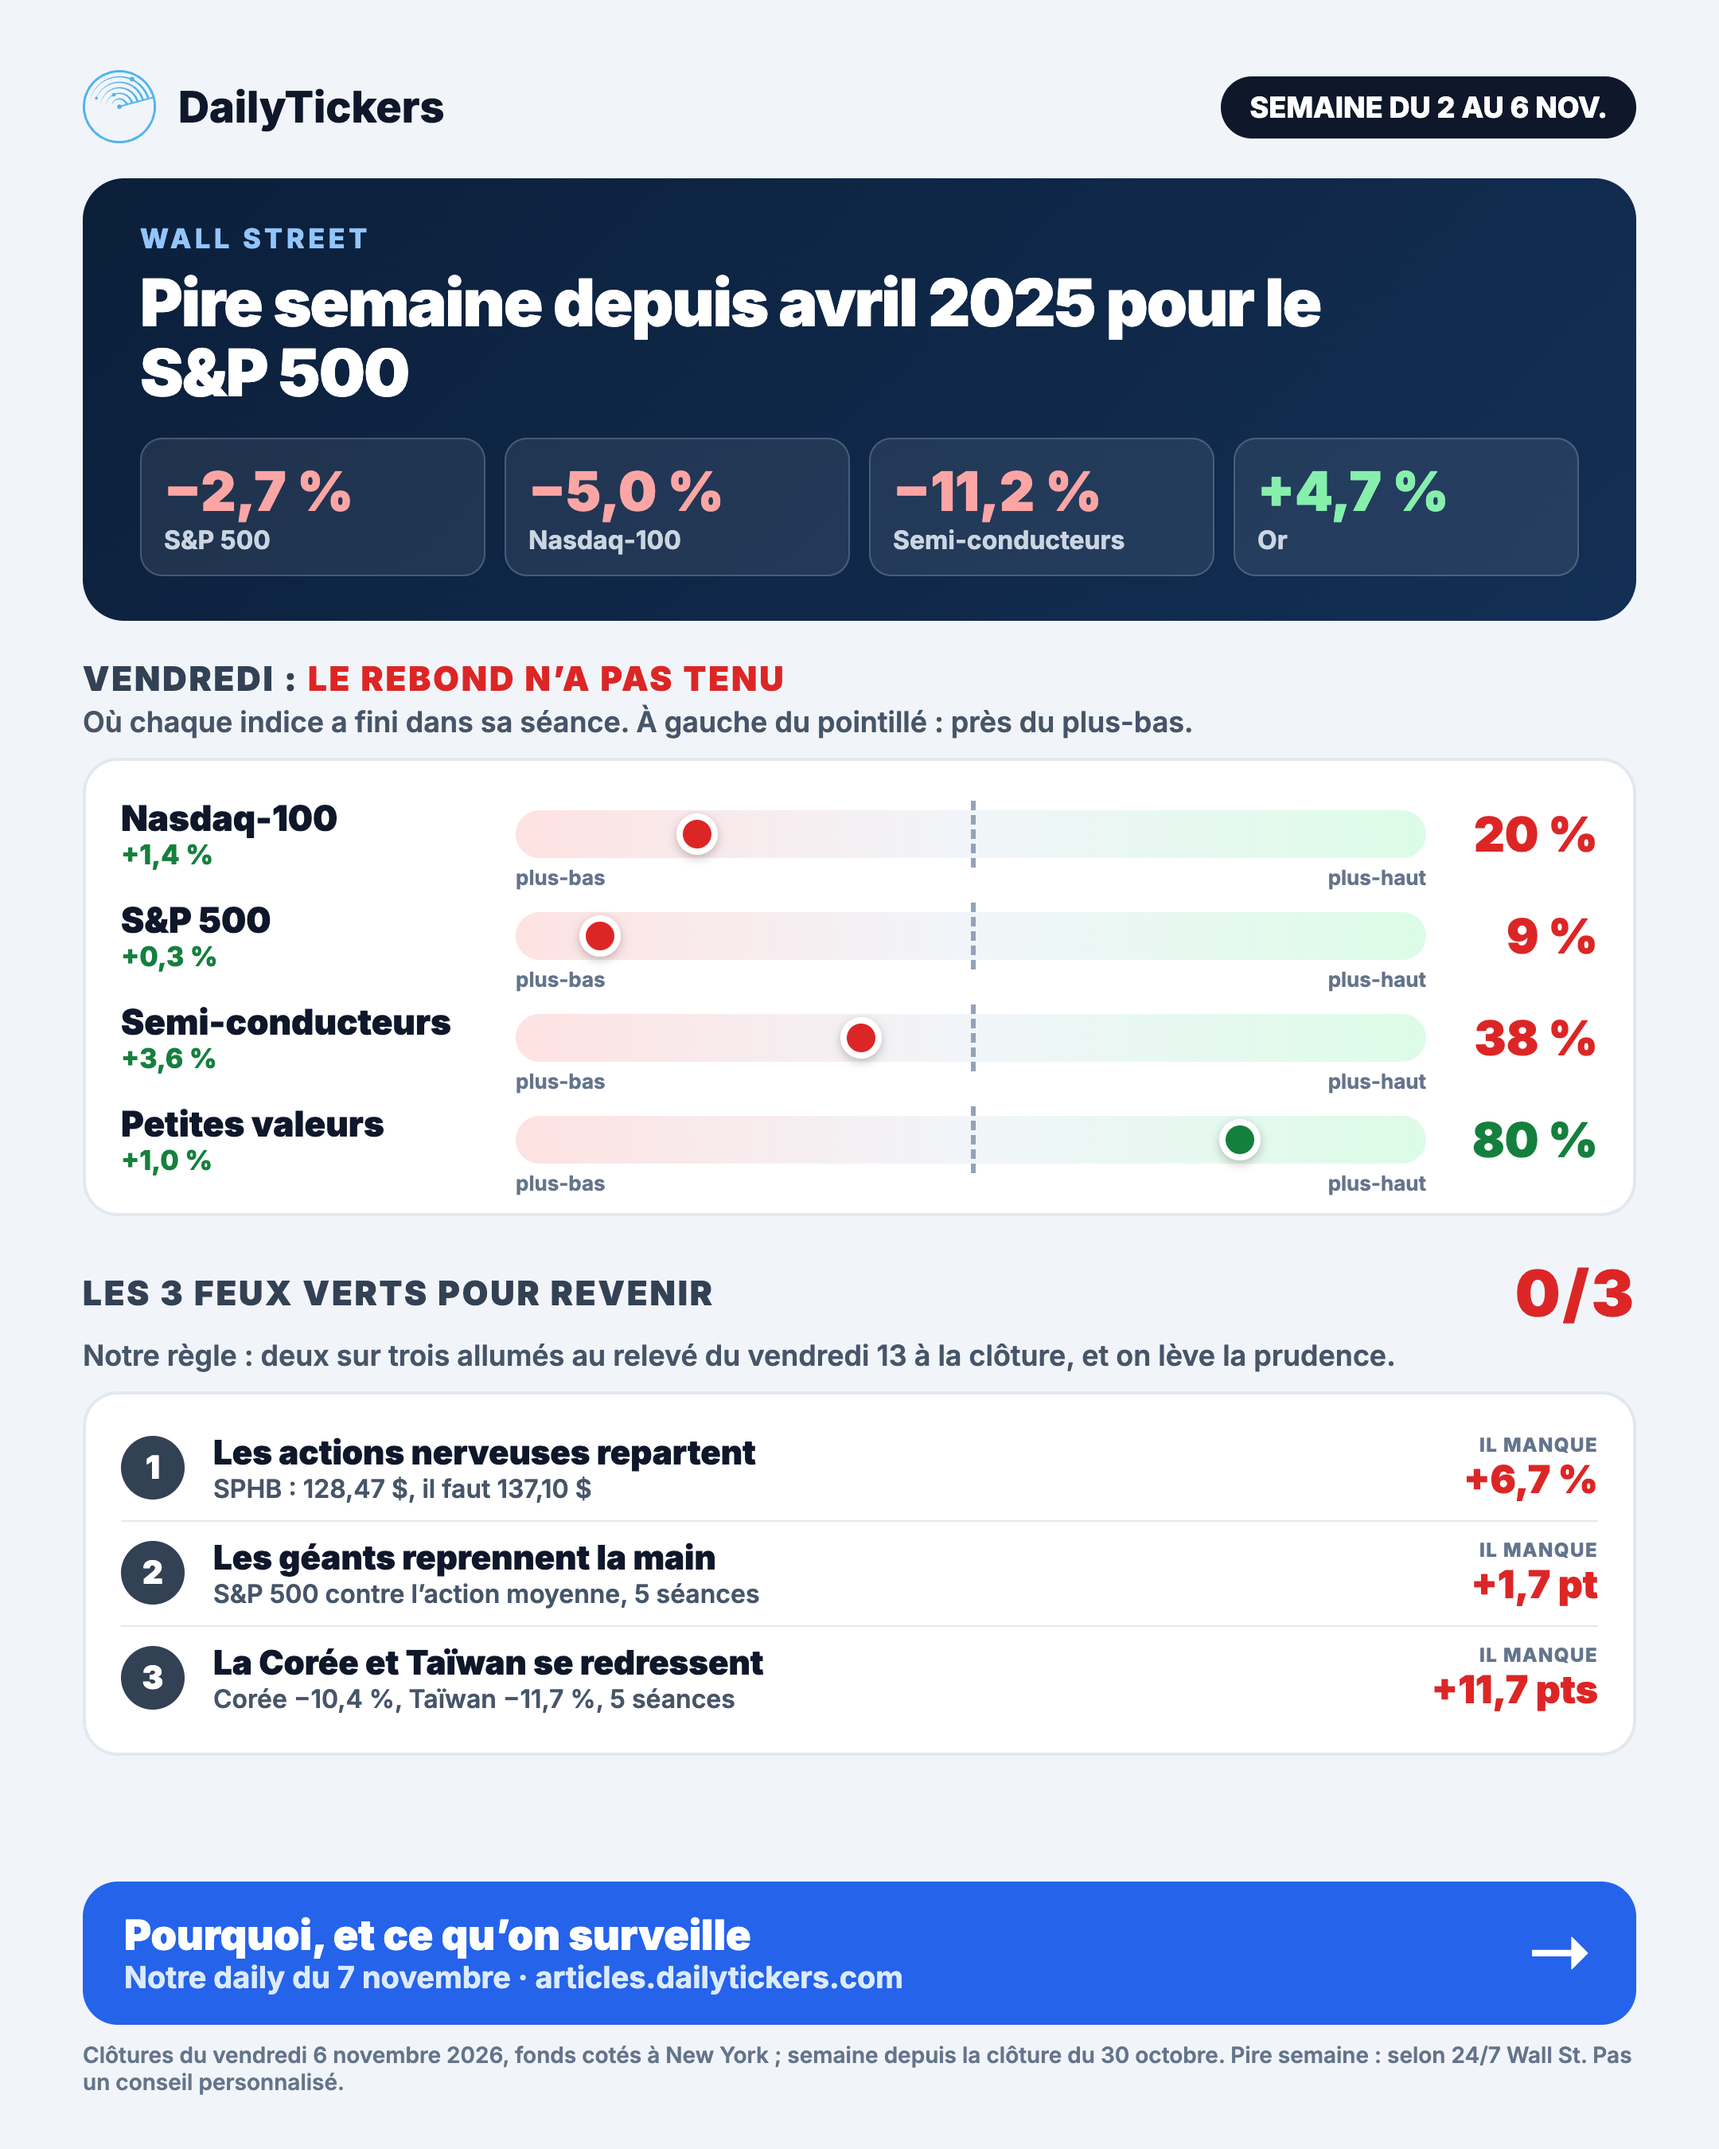
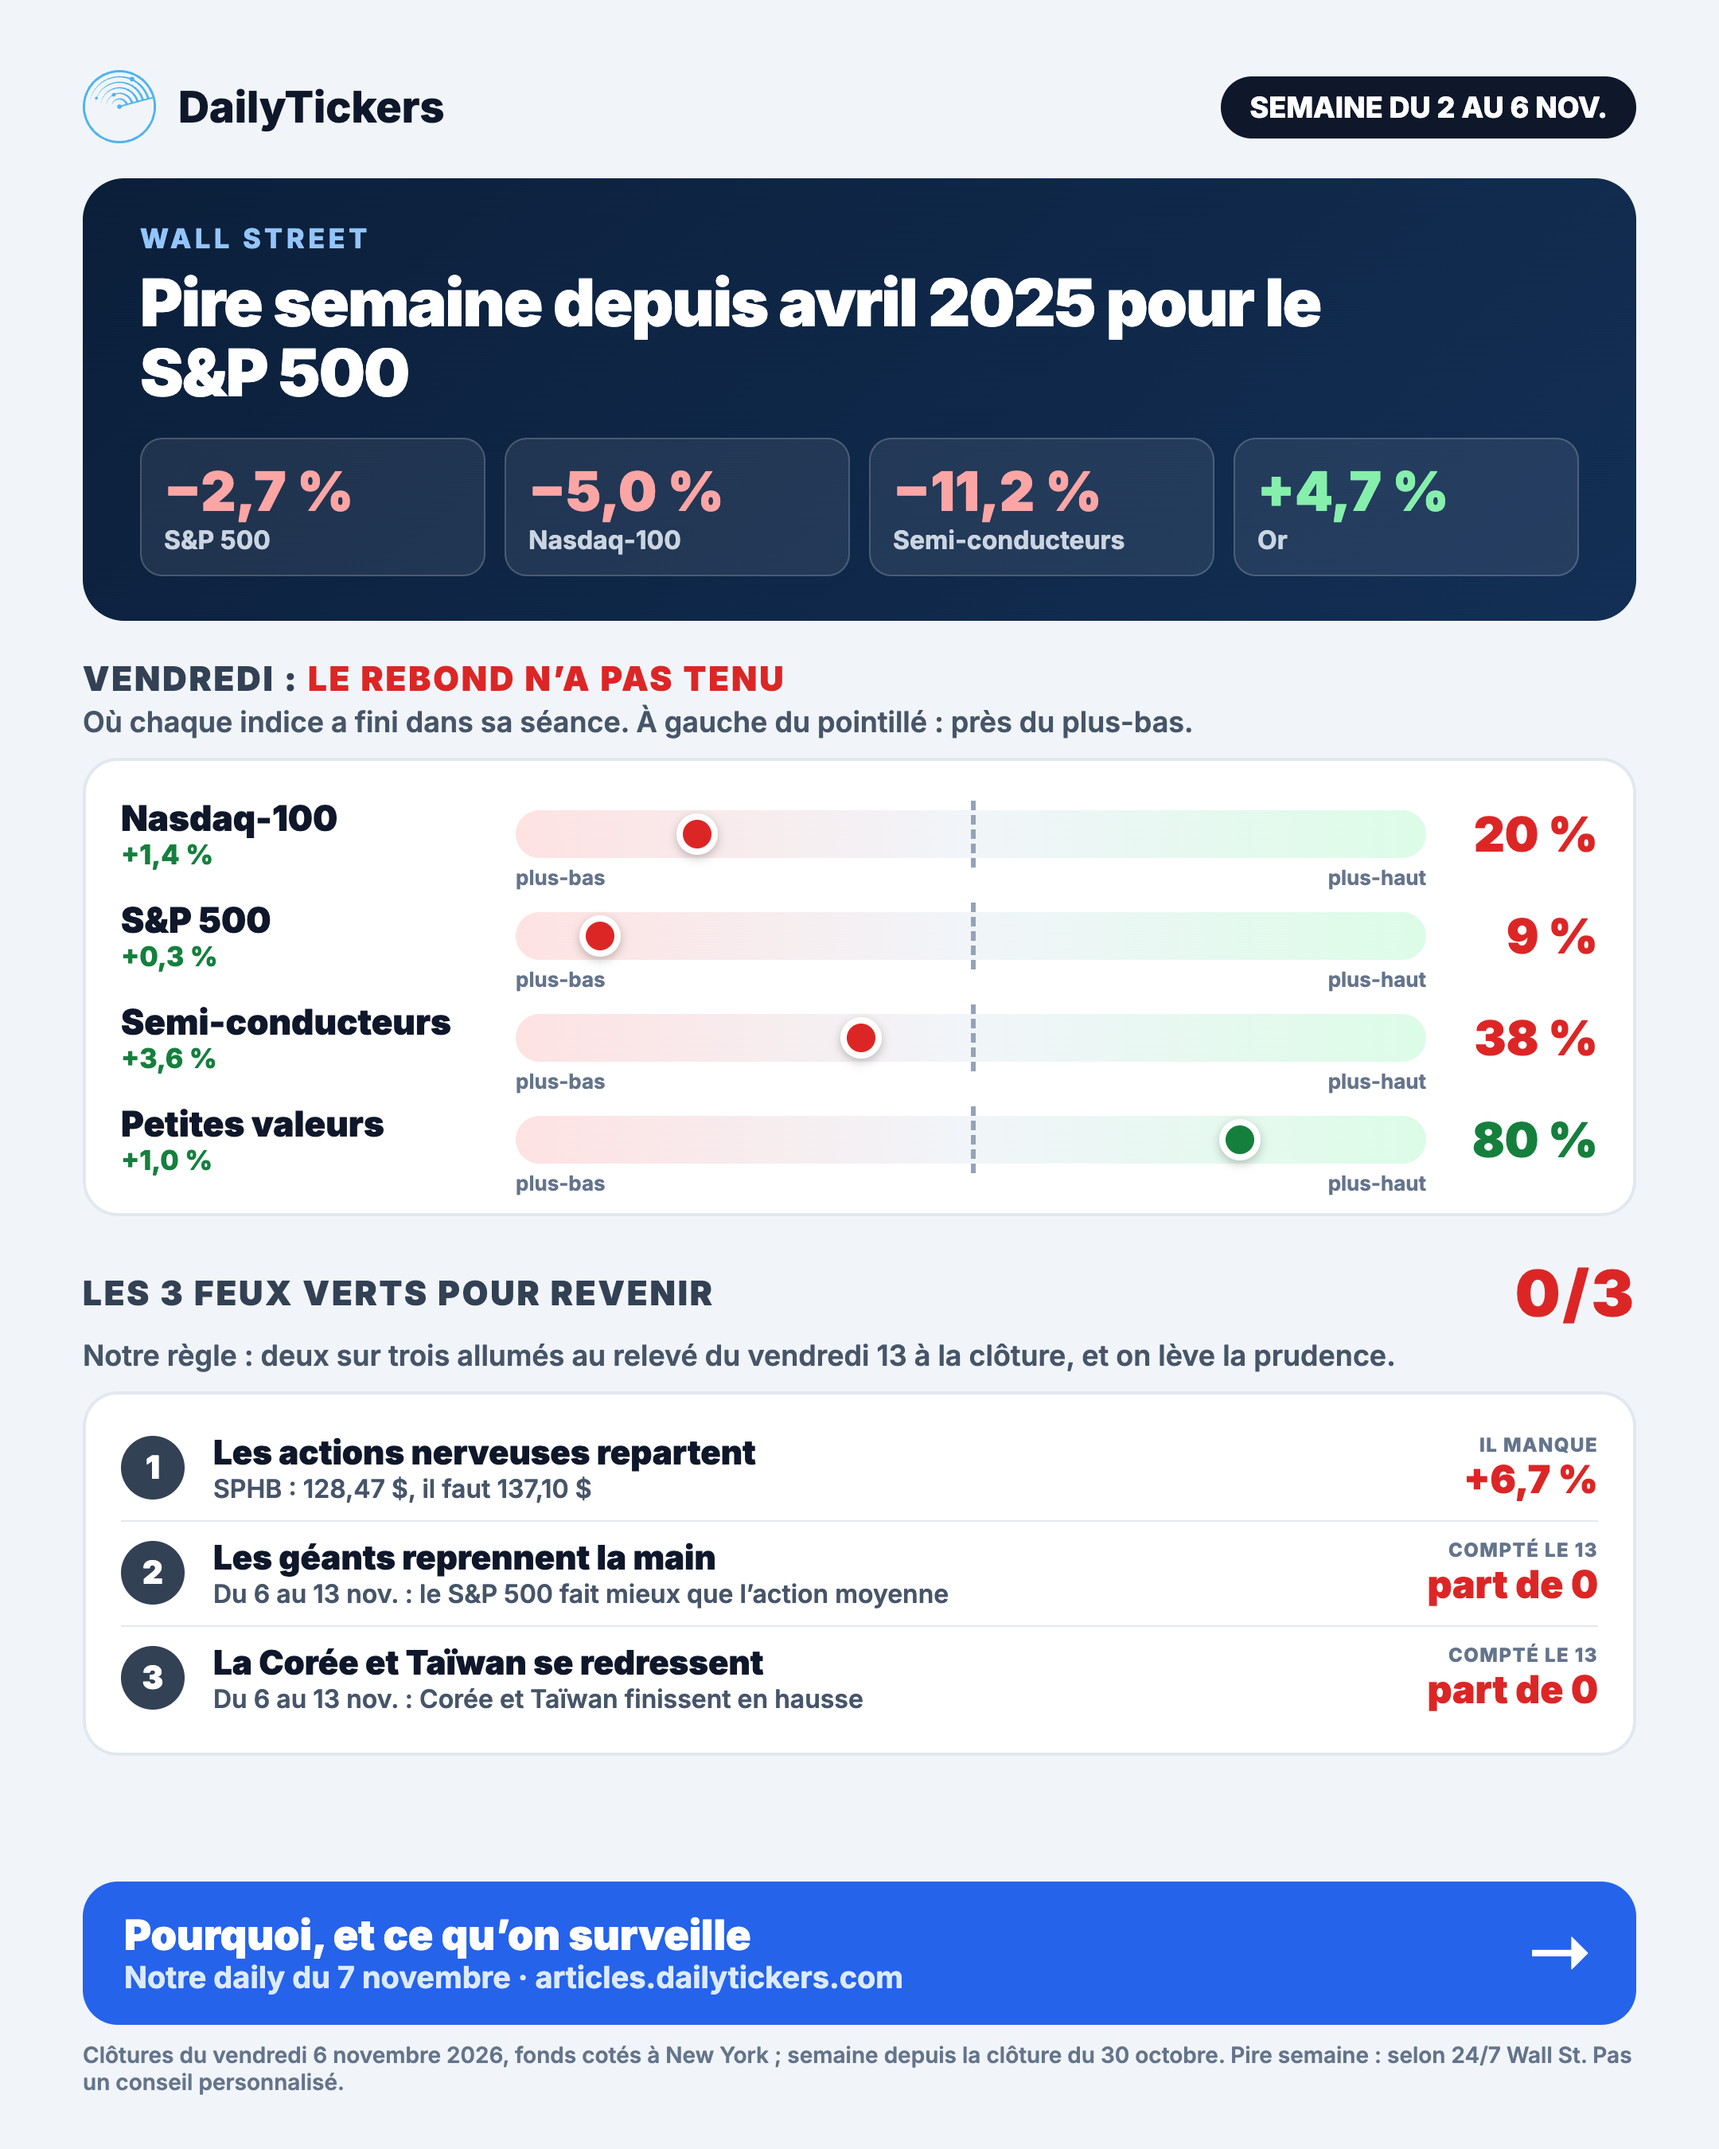
fix(notifs): affiche du 7 novembre, feux 2 et 3 comptés depuis la clôture du 6
Les feux 2 et 3 repartent de zéro au relevé du vendredi 13 (règle amendée le 7 novembre) : plus d'écart à combler mesuré sur l'ancienne fenêtre.

Changed region(s): [[0.1241, 0.7156, 0.5583, 0.7467], [0.1241, 0.7778, 0.4963, 0.8089], [0.8375, 0.7156, 0.9306, 0.8089]]

diff --git a/index.html b/index.html
@@ -44,7 +44,7 @@
   <link rel="stylesheet" href="https://cdnjs.cloudflare.com/ajax/libs/font-awesome/6.4.0/css/all.min.css">
   <link href="https://fonts.googleapis.com/css2?family=Inter:wght@300;400;600;800&family=JetBrains+Mono:wght@400;700;800&family=DM+Sans:wght@400;500;700;800&display=swap" rel="stylesheet">
   <!-- ECharts lazy-loaded on radar/scanner tab -->
-  <script src="/data/search_data.js?v=202611070904"></script>
+  <script src="/data/search_data.js?v=202611070906"></script>
   <style>
     /* Landing Specific Overrides */
     body {
